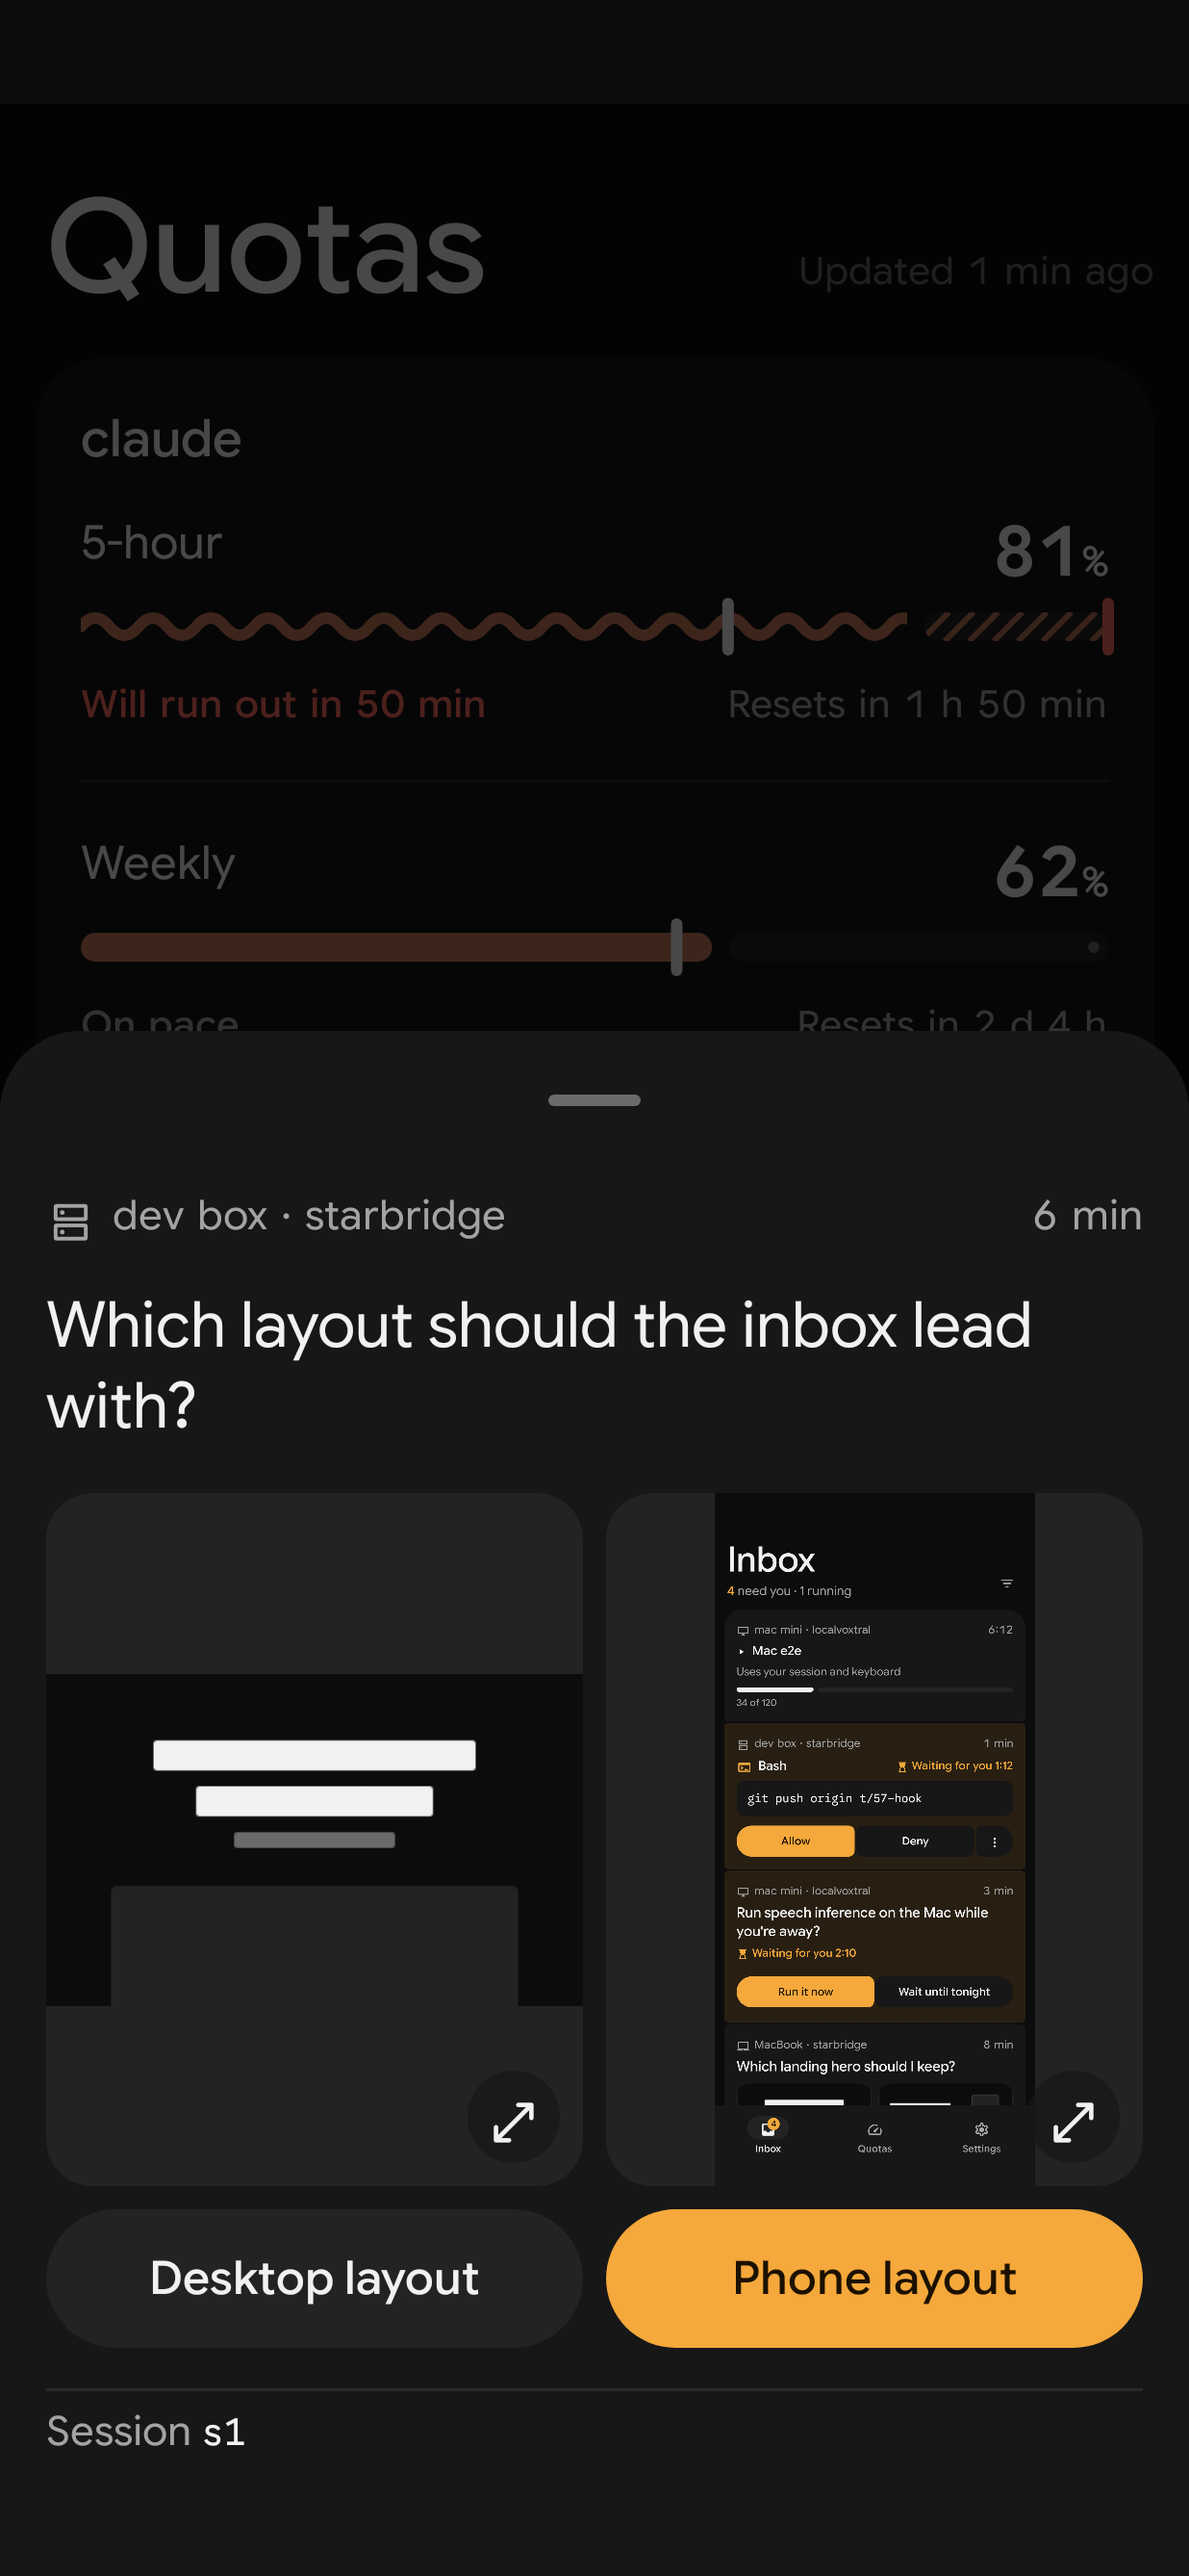
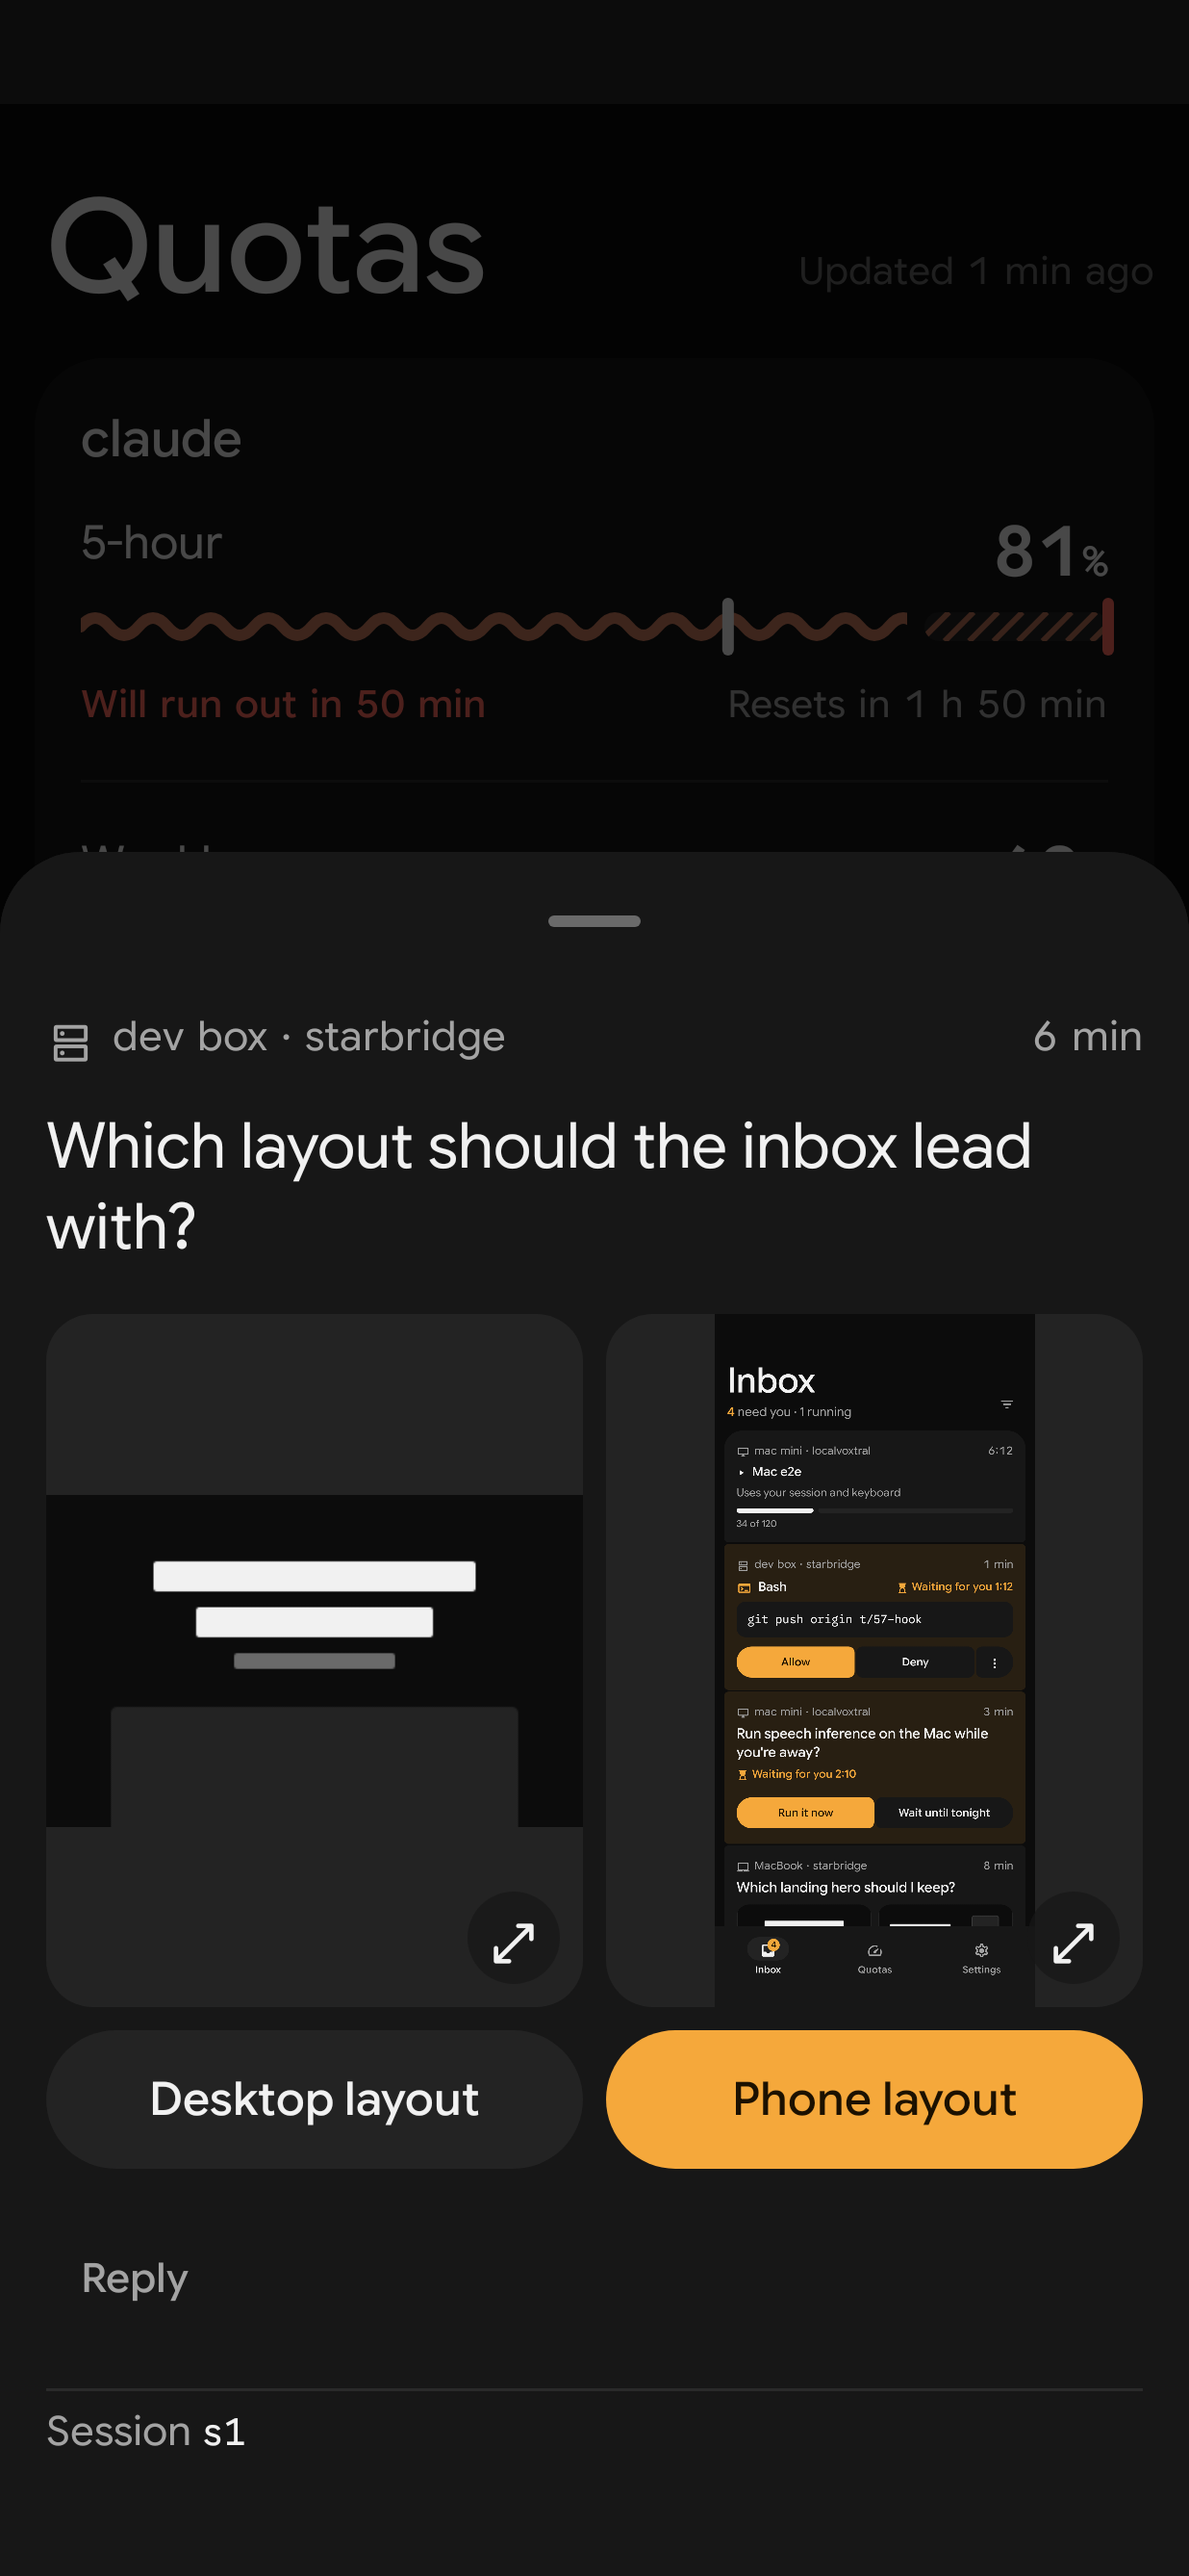
Android: "Reply" under a question whose options each have an image (#536)

diff --git a/android/app/src/test/kotlin/dev/starbridge/app/Fake.kt b/android/app/src/test/kotlin/dev/starbridge/app/Fake.kt
@@ -172,7 +172,7 @@ class Fake(private val now: Instant) {
         images = listOf(Image(toB64(javaClass.getResourceAsStream("/fake/phone-inbox.png")!!.readBytes()), 1236, 2676, alt = "Inbox, dark")),
     )
 
-    /** A desktop and a phone layout over their options: the slots share the phone's height (#536). */
+    /** A desktop and a phone layout over their options, "Reply" under them: the slots share the phone's height (#536). */
     val layouts = Decision(
         id = "d9",
         question = "Which layout should the inbox lead with?",
@@ -182,6 +182,7 @@ class Fake(private val now: Instant) {
         source = devBox,
         createdAt = ago(6),
         agent = "claude-code",
+        replies = true,
         images = listOf(
             Image(toB64(javaClass.getResourceAsStream("/fake/hero-a.png")!!.readBytes()), 340, 210, alt = "Desktop layout"),
             Image(toB64(javaClass.getResourceAsStream("/fake/phone-inbox.png")!!.readBytes()), 1236, 2676, alt = "Phone layout"),

diff --git a/android/app/src/main/kotlin/dev/starbridge/app/ui/inbox/InboxScreen.kt b/android/app/src/main/kotlin/dev/starbridge/app/ui/inbox/InboxScreen.kt
@@ -525,7 +525,10 @@ fun DecisionSheet(decision: Decision, now: Instant, onAnswer: (String, String?, 
                     Images(decision.images, maxHeight = 360.dp)
                     Outcome(decision, now, arrived = wasOpen)
                 }
-                paired -> Picks(decision, sending, send)
+                paired -> {
+                    Picks(decision, sending, send)
+                    if (decision.replies) Reply(decision.id, replies, sending != null) { send(null, it) }
+                }
                 else -> {
                     Images(decision.images, maxHeight = 360.dp)
                     val page = decision.answerIn

diff --git a/SPEC.md b/SPEC.md
@@ -573,7 +573,7 @@ first window, so a provider with a window running out leads.
 - **Picks** (#536). A question with one image per option, two or more, shows each image over its
   option, two to a row, in the agent's order. A row's images share the tallest one's height (at
   most `size.pick`), each centred on the inset colour, so the row's buttons line up and a phone
-  screenshot beside a desktop one does not grow the row.
+  screenshot beside a desktop one does not grow the row. "Reply" sits under them, as under plain options.
 - **Signed out.** A browser that holds no device of the account it last signed in to gets the
   landing page at `/`, as does a revoked browser (#209); one with a device gets sign-in.
 - **Restarts go unnoticed** (#250). Clients retry a 502, 503 or refused connection quietly for
